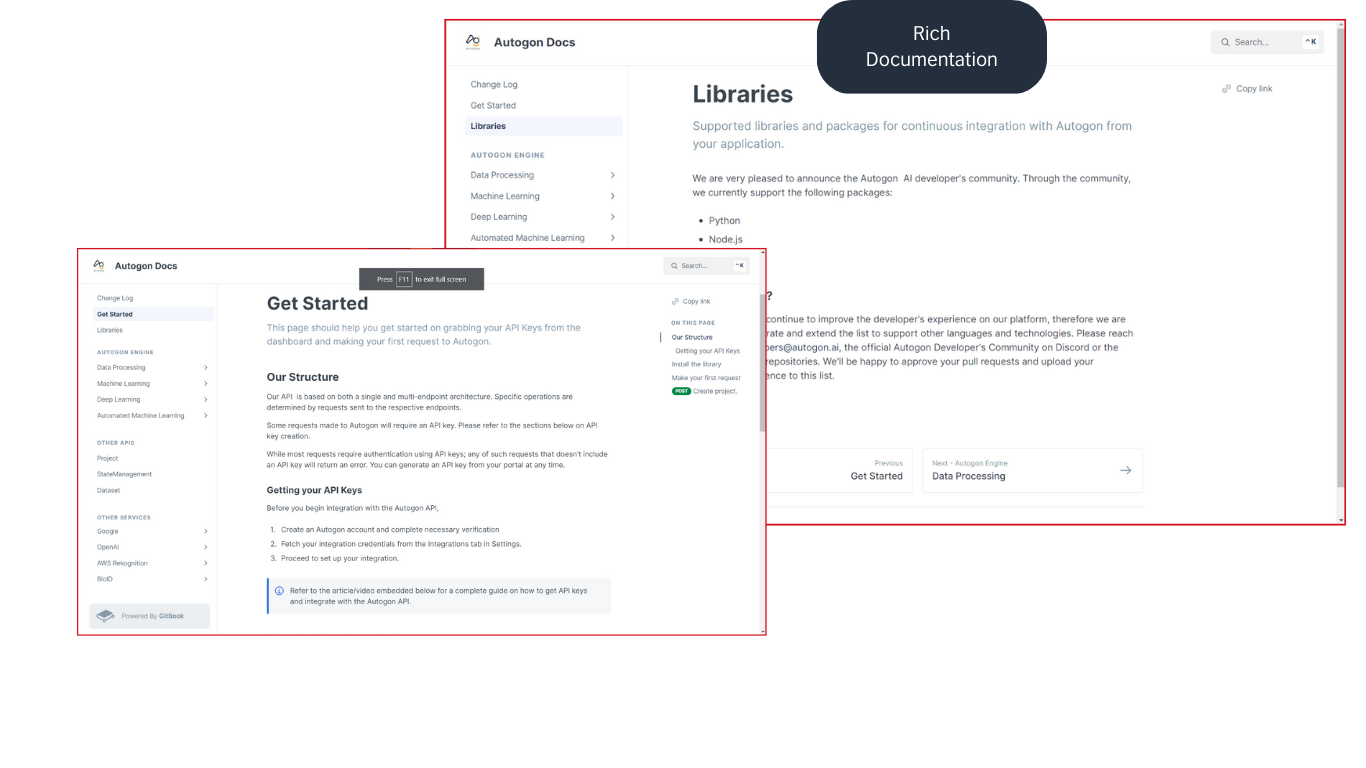
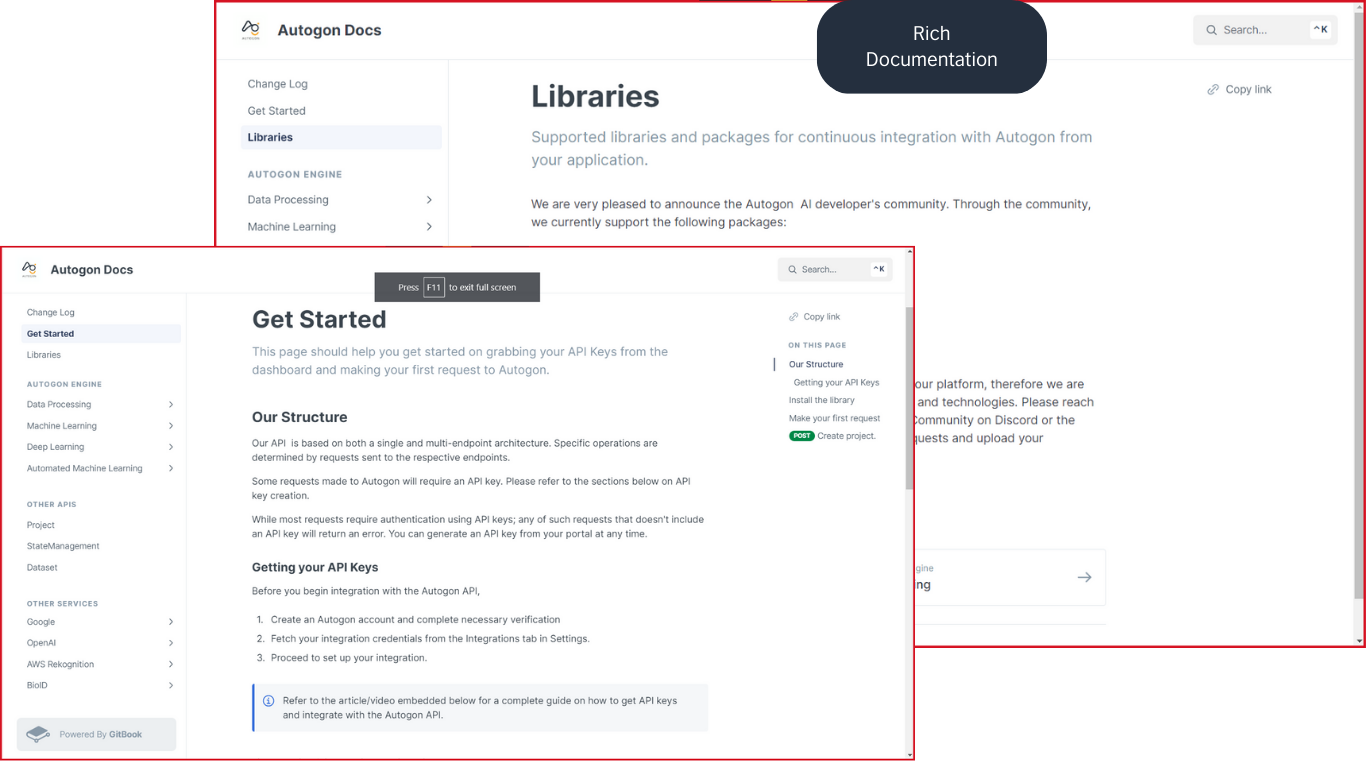
Transparent background for screenshots update

diff --git a/src/pages/Index/index.tsx b/src/pages/Index/index.tsx
@@ -17,8 +17,8 @@ import { Pagination } from "swiper";
 import { BenefitCard } from "./components/BenefitCard";
 import MlFlow from '../../assets/images/mlFlow.png'
 import SideMlFlow from '../../assets/images/sideMlFlow.png'
-import screenshots from '../../assets/images/screenshot3.jpg';
-import screenshots1 from '../../assets/images/screenshot2.jpg';
+import screenshots from '../../assets/images/screenshot1.png';
+import screenshots1 from '../../assets/images/screenshot2.png';
 import screenshots2 from '../../assets/images/screenshot3.png';
 import snip from '../../assets/images/snip.jpg'
 

diff --git a/src/pages/Platform/pages/sections/DataPreparation.tsx b/src/pages/Platform/pages/sections/DataPreparation.tsx
@@ -1,6 +1,6 @@
 import { useState } from 'react'
 import { Button, Container, Typography } from "../../../../components";
-import DataPrep from '../../../../assets/images/screenshot2.jpg'
+import DataPrep from '../../../../assets/images/screenshot2.png'
 import { NavLink } from "react-router-dom";
 
 const DataPreparation = () => {
